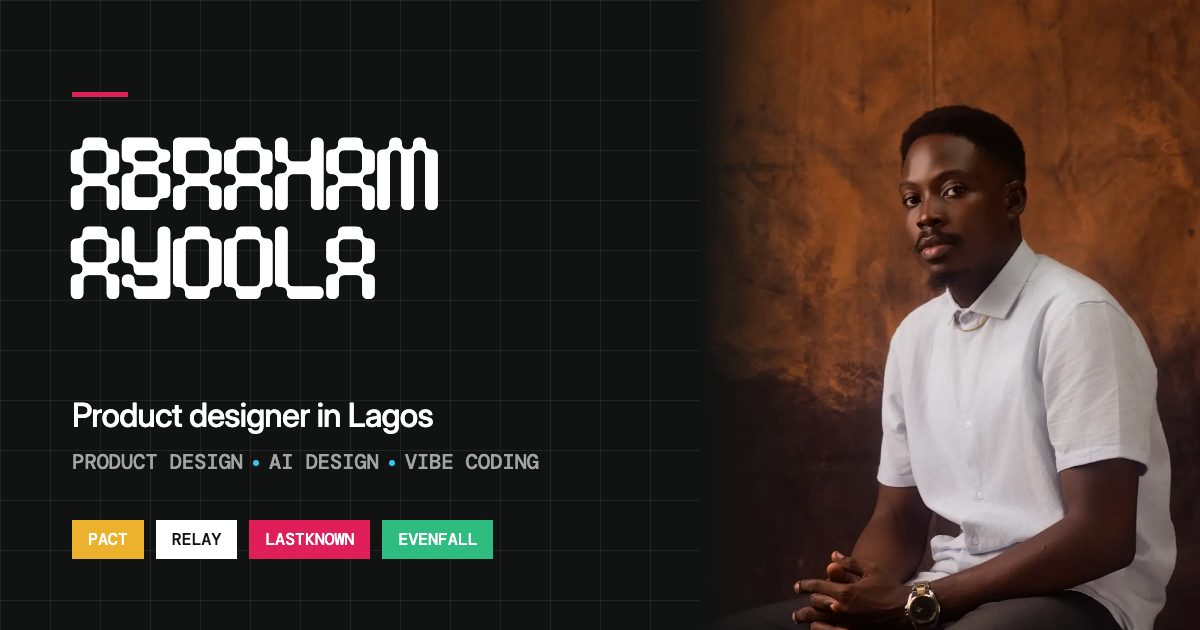
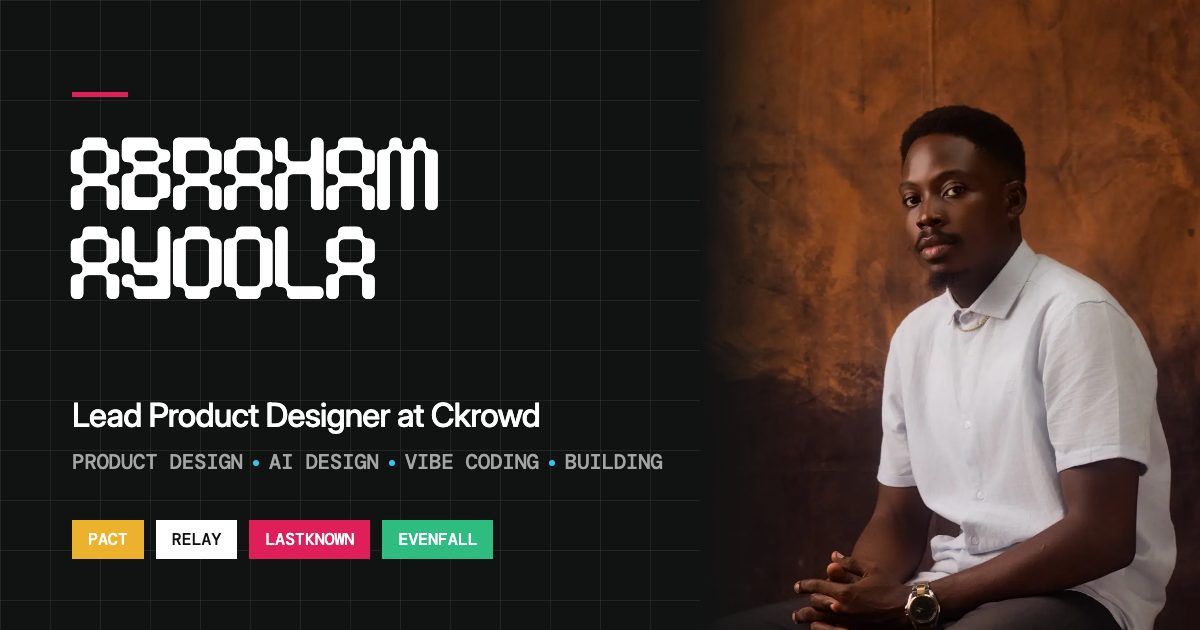
Update home preview copy to Lead Product Designer

Changed region(s): [[0.0617, 0.6333, 0.4625, 0.6937], [0.4625, 0.7238, 0.555, 0.754]]

diff --git a/play-ground/index.html b/play-ground/index.html
@@ -1,16 +1,16 @@
 <!doctype html>
 <html lang="en"><head>
 <meta charset="utf-8"><meta name="viewport" content="width=device-width,initial-scale=1">
-<title>Playground | Abraham Ayoola</title><meta name="description" content="Product designer in Lagos. I design and build outstanding digital products: Pact, Relay, LastKnown, Kivo, Evenfall, Avenli and Dwelling.">
+<title>Playground | Abraham Ayoola</title><meta name="description" content="Five years turning complex problems into products people can use. Edtech, fintech, health, proptech and the creator economy at Ckrowd, Pledre, Inawo and GetPerson. I design it, then build it.">
 <link rel="canonical" href="https://drahye.github.io/play-ground/">
 <meta name="theme-color" content="#36c5f0"><meta property="og:type" content="website"><meta property="og:site_name" content="Abraham Ayoola"><meta property="og:url" content="https://drahye.github.io/play-ground/">
-<meta property="og:title" content="Playground | Abraham Ayoola"><meta property="og:description" content="Product designer in Lagos. I design and build outstanding digital products: Pact, Relay, LastKnown, Kivo, Evenfall, Avenli and Dwelling.">
+<meta property="og:title" content="Playground | Abraham Ayoola"><meta property="og:description" content="Five years turning complex problems into products people can use. Edtech, fintech, health, proptech and the creator economy at Ckrowd, Pledre, Inawo and GetPerson. I design it, then build it.">
 <meta property="og:image" content="https://drahye.github.io/img/og.jpg"><meta property="og:image:type" content="image/jpeg"><meta property="og:image:width" content="1200"><meta property="og:image:height" content="630"><meta property="og:image:alt" content="Playground | Abraham Ayoola">
-<meta name="twitter:card" content="summary_large_image"><meta name="twitter:title" content="Playground | Abraham Ayoola"><meta name="twitter:description" content="Product designer in Lagos. I design and build outstanding digital products: Pact, Relay, LastKnown, Kivo, Evenfall, Avenli and Dwelling."><meta name="twitter:image" content="https://drahye.github.io/img/og.jpg">
+<meta name="twitter:card" content="summary_large_image"><meta name="twitter:title" content="Playground | Abraham Ayoola"><meta name="twitter:description" content="Five years turning complex problems into products people can use. Edtech, fintech, health, proptech and the creator economy at Ckrowd, Pledre, Inawo and GetPerson. I design it, then build it."><meta name="twitter:image" content="https://drahye.github.io/img/og.jpg">
 <link rel="icon" href="/img/favicon.svg" type="image/svg+xml">
 <script>if("scrollRestoration"in history)history.scrollRestoration="manual";if(!location.hash)scrollTo(0,0)</script>
 <link rel="preload" href="/fonts/FluxVF.woff2" as="font" type="font/woff2" crossorigin>
-<link rel="stylesheet" href="/styles.css?v=mw462iqw">
+<link rel="stylesheet" href="/styles.css?v=mw46jk9s">
 </head><body class="" data-page="playground">
 <a class="skip" href="#main">Skip to content</a>
 <div class="pt" id="pt" aria-hidden="true"><div class="paper"></div></div>
@@ -29,5 +29,5 @@
   <svg class="stk dr" style="left:380px;top:440px" data-r="0" width="76" height="76" viewBox="0 0 76 76"><circle cx="38" cy="38" r="34" fill="#f4b9cb" stroke="#111212" stroke-width="3"/><circle cx="28" cy="32" r="3" fill="#111212"/><circle cx="48" cy="32" r="3" fill="#111212"/><path d="M24 46c8 8 20 8 28 0" fill="none" stroke="#111212" stroke-width="3" stroke-linecap="round"/></svg></div><div class="ruler bottom"></div></main>
 </div>
 <a class="pill" href="mailto:abrahamayoola35@gmail.com"><i></i>Say hello</a>
-<script src="/lenis.min.js?v=mw462iqw"></script><script src="/main.js?v=mw462iqw" defer></script>
+<script src="/lenis.min.js?v=mw46jk9s"></script><script src="/main.js?v=mw46jk9s" defer></script>
 </body></html>

diff --git a/index.html b/index.html
@@ -1,16 +1,16 @@
 <!doctype html>
 <html lang="en"><head>
 <meta charset="utf-8"><meta name="viewport" content="width=device-width,initial-scale=1">
-<title>Abraham Ayoola — Product Designer</title><meta name="description" content="Product designer in Lagos. I design and build outstanding digital products: Pact, Relay, LastKnown, Kivo, Evenfall, Avenli and Dwelling.">
+<title>Abraham Ayoola — Lead Product Designer</title><meta name="description" content="Five years turning complex problems into products people can use. Edtech, fintech, health, proptech and the creator economy at Ckrowd, Pledre, Inawo and GetPerson. I design it, then build it.">
 <link rel="canonical" href="https://drahye.github.io/">
 <meta name="theme-color" content="#36c5f0"><meta property="og:type" content="website"><meta property="og:site_name" content="Abraham Ayoola"><meta property="og:url" content="https://drahye.github.io/">
-<meta property="og:title" content="Abraham Ayoola — Product Designer"><meta property="og:description" content="Product designer in Lagos. I design and build outstanding digital products: Pact, Relay, LastKnown, Kivo, Evenfall, Avenli and Dwelling.">
-<meta property="og:image" content="https://drahye.github.io/img/og.jpg"><meta property="og:image:type" content="image/jpeg"><meta property="og:image:width" content="1200"><meta property="og:image:height" content="630"><meta property="og:image:alt" content="Abraham Ayoola — Product Designer">
-<meta name="twitter:card" content="summary_large_image"><meta name="twitter:title" content="Abraham Ayoola — Product Designer"><meta name="twitter:description" content="Product designer in Lagos. I design and build outstanding digital products: Pact, Relay, LastKnown, Kivo, Evenfall, Avenli and Dwelling."><meta name="twitter:image" content="https://drahye.github.io/img/og.jpg">
+<meta property="og:title" content="Abraham Ayoola — Lead Product Designer"><meta property="og:description" content="Five years turning complex problems into products people can use. Edtech, fintech, health, proptech and the creator economy at Ckrowd, Pledre, Inawo and GetPerson. I design it, then build it.">
+<meta property="og:image" content="https://drahye.github.io/img/og.jpg"><meta property="og:image:type" content="image/jpeg"><meta property="og:image:width" content="1200"><meta property="og:image:height" content="630"><meta property="og:image:alt" content="Abraham Ayoola — Lead Product Designer">
+<meta name="twitter:card" content="summary_large_image"><meta name="twitter:title" content="Abraham Ayoola — Lead Product Designer"><meta name="twitter:description" content="Five years turning complex problems into products people can use. Edtech, fintech, health, proptech and the creator economy at Ckrowd, Pledre, Inawo and GetPerson. I design it, then build it."><meta name="twitter:image" content="https://drahye.github.io/img/og.jpg">
 <link rel="icon" href="/img/favicon.svg" type="image/svg+xml">
 <script>if("scrollRestoration"in history)history.scrollRestoration="manual";if(!location.hash)scrollTo(0,0)</script>
 <link rel="preload" href="/fonts/FluxVF.woff2" as="font" type="font/woff2" crossorigin>
-<link rel="stylesheet" href="/styles.css?v=mw462iqw">
+<link rel="stylesheet" href="/styles.css?v=mw46jk9s">
 </head><body class="" data-page="home">
 <a class="skip" href="#main">Skip to content</a>
 <div class="pt" id="pt" aria-hidden="true"><div class="paper"></div></div>
@@ -186,5 +186,5 @@
 </main>
 </div>
 <a class="pill" href="mailto:abrahamayoola35@gmail.com"><i></i>Say hello</a>
-<script src="/lenis.min.js?v=mw462iqw"></script><script src="/main.js?v=mw462iqw" defer></script>
+<script src="/lenis.min.js?v=mw46jk9s"></script><script src="/main.js?v=mw46jk9s" defer></script>
 </body></html>

diff --git a/case-study/index.html b/case-study/index.html
@@ -1,16 +1,16 @@
 <!doctype html>
 <html lang="en"><head>
 <meta charset="utf-8"><meta name="viewport" content="width=device-width,initial-scale=1">
-<title>Case studies | Abraham Ayoola</title><meta name="description" content="Product designer in Lagos. I design and build outstanding digital products: Pact, Relay, LastKnown, Kivo, Evenfall, Avenli and Dwelling.">
+<title>Case studies | Abraham Ayoola</title><meta name="description" content="Five years turning complex problems into products people can use. Edtech, fintech, health, proptech and the creator economy at Ckrowd, Pledre, Inawo and GetPerson. I design it, then build it.">
 <link rel="canonical" href="https://drahye.github.io/case-study/">
 <meta name="theme-color" content="#36c5f0"><meta property="og:type" content="website"><meta property="og:site_name" content="Abraham Ayoola"><meta property="og:url" content="https://drahye.github.io/case-study/">
-<meta property="og:title" content="Case studies | Abraham Ayoola"><meta property="og:description" content="Product designer in Lagos. I design and build outstanding digital products: Pact, Relay, LastKnown, Kivo, Evenfall, Avenli and Dwelling.">
+<meta property="og:title" content="Case studies | Abraham Ayoola"><meta property="og:description" content="Five years turning complex problems into products people can use. Edtech, fintech, health, proptech and the creator economy at Ckrowd, Pledre, Inawo and GetPerson. I design it, then build it.">
 <meta property="og:image" content="https://drahye.github.io/img/og.jpg"><meta property="og:image:type" content="image/jpeg"><meta property="og:image:width" content="1200"><meta property="og:image:height" content="630"><meta property="og:image:alt" content="Case studies | Abraham Ayoola">
-<meta name="twitter:card" content="summary_large_image"><meta name="twitter:title" content="Case studies | Abraham Ayoola"><meta name="twitter:description" content="Product designer in Lagos. I design and build outstanding digital products: Pact, Relay, LastKnown, Kivo, Evenfall, Avenli and Dwelling."><meta name="twitter:image" content="https://drahye.github.io/img/og.jpg">
+<meta name="twitter:card" content="summary_large_image"><meta name="twitter:title" content="Case studies | Abraham Ayoola"><meta name="twitter:description" content="Five years turning complex problems into products people can use. Edtech, fintech, health, proptech and the creator economy at Ckrowd, Pledre, Inawo and GetPerson. I design it, then build it."><meta name="twitter:image" content="https://drahye.github.io/img/og.jpg">
 <link rel="icon" href="/img/favicon.svg" type="image/svg+xml">
 <script>if("scrollRestoration"in history)history.scrollRestoration="manual";if(!location.hash)scrollTo(0,0)</script>
 <link rel="preload" href="/fonts/FluxVF.woff2" as="font" type="font/woff2" crossorigin>
-<link rel="stylesheet" href="/styles.css?v=mw462iqw">
+<link rel="stylesheet" href="/styles.css?v=mw46jk9s">
 </head><body class="" data-page="case-study">
 <a class="skip" href="#main">Skip to content</a>
 <div class="pt" id="pt" aria-hidden="true"><div class="paper"></div></div>
@@ -59,5 +59,5 @@
 </section></main>
 </div>
 <a class="pill" href="mailto:abrahamayoola35@gmail.com"><i></i>Say hello</a>
-<script src="/lenis.min.js?v=mw462iqw"></script><script src="/main.js?v=mw462iqw" defer></script>
+<script src="/lenis.min.js?v=mw46jk9s"></script><script src="/main.js?v=mw46jk9s" defer></script>
 </body></html>

diff --git a/404.html b/404.html
@@ -1,16 +1,16 @@
 <!doctype html>
 <html lang="en"><head>
 <meta charset="utf-8"><meta name="viewport" content="width=device-width,initial-scale=1">
-<title>Not found</title><meta name="description" content="Product designer in Lagos. I design and build outstanding digital products: Pact, Relay, LastKnown, Kivo, Evenfall, Avenli and Dwelling.">
+<title>Not found</title><meta name="description" content="Five years turning complex problems into products people can use. Edtech, fintech, health, proptech and the creator economy at Ckrowd, Pledre, Inawo and GetPerson. I design it, then build it.">
 <link rel="canonical" href="https://drahye.github.io/">
 <meta name="theme-color" content="#36c5f0"><meta property="og:type" content="website"><meta property="og:site_name" content="Abraham Ayoola"><meta property="og:url" content="https://drahye.github.io/">
-<meta property="og:title" content="Not found"><meta property="og:description" content="Product designer in Lagos. I design and build outstanding digital products: Pact, Relay, LastKnown, Kivo, Evenfall, Avenli and Dwelling.">
+<meta property="og:title" content="Not found"><meta property="og:description" content="Five years turning complex problems into products people can use. Edtech, fintech, health, proptech and the creator economy at Ckrowd, Pledre, Inawo and GetPerson. I design it, then build it.">
 <meta property="og:image" content="https://drahye.github.io/img/og.jpg"><meta property="og:image:type" content="image/jpeg"><meta property="og:image:width" content="1200"><meta property="og:image:height" content="630"><meta property="og:image:alt" content="Not found">
-<meta name="twitter:card" content="summary_large_image"><meta name="twitter:title" content="Not found"><meta name="twitter:description" content="Product designer in Lagos. I design and build outstanding digital products: Pact, Relay, LastKnown, Kivo, Evenfall, Avenli and Dwelling."><meta name="twitter:image" content="https://drahye.github.io/img/og.jpg">
+<meta name="twitter:card" content="summary_large_image"><meta name="twitter:title" content="Not found"><meta name="twitter:description" content="Five years turning complex problems into products people can use. Edtech, fintech, health, proptech and the creator economy at Ckrowd, Pledre, Inawo and GetPerson. I design it, then build it."><meta name="twitter:image" content="https://drahye.github.io/img/og.jpg">
 <link rel="icon" href="/img/favicon.svg" type="image/svg+xml">
 <script>if("scrollRestoration"in history)history.scrollRestoration="manual";if(!location.hash)scrollTo(0,0)</script>
 <link rel="preload" href="/fonts/FluxVF.woff2" as="font" type="font/woff2" crossorigin>
-<link rel="stylesheet" href="/styles.css?v=mw462iqw">
+<link rel="stylesheet" href="/styles.css?v=mw46jk9s">
 </head><body class="" data-page="404">
 <a class="skip" href="#main">Skip to content</a>
 <div class="pt" id="pt" aria-hidden="true"><div class="paper"></div></div>
@@ -26,5 +26,5 @@
 <main id="main" tabindex="-1"><div class="pg-h"><h1 class="flux t-xl">404</h1><p style="margin-top:30px"><a class="vp mono s" href="/">Back home</a></p></div></main>
 </div>
 <a class="pill" href="mailto:abrahamayoola35@gmail.com"><i></i>Say hello</a>
-<script src="/lenis.min.js?v=mw462iqw"></script><script src="/main.js?v=mw462iqw" defer></script>
+<script src="/lenis.min.js?v=mw46jk9s"></script><script src="/main.js?v=mw46jk9s" defer></script>
 </body></html>

diff --git a/contact/index.html b/contact/index.html
@@ -1,16 +1,16 @@
 <!doctype html>
 <html lang="en"><head>
 <meta charset="utf-8"><meta name="viewport" content="width=device-width,initial-scale=1">
-<title>Contact | Abraham Ayoola</title><meta name="description" content="Product designer in Lagos. I design and build outstanding digital products: Pact, Relay, LastKnown, Kivo, Evenfall, Avenli and Dwelling.">
+<title>Contact | Abraham Ayoola</title><meta name="description" content="Five years turning complex problems into products people can use. Edtech, fintech, health, proptech and the creator economy at Ckrowd, Pledre, Inawo and GetPerson. I design it, then build it.">
 <link rel="canonical" href="https://drahye.github.io/contact/">
 <meta name="theme-color" content="#36c5f0"><meta property="og:type" content="website"><meta property="og:site_name" content="Abraham Ayoola"><meta property="og:url" content="https://drahye.github.io/contact/">
-<meta property="og:title" content="Contact | Abraham Ayoola"><meta property="og:description" content="Product designer in Lagos. I design and build outstanding digital products: Pact, Relay, LastKnown, Kivo, Evenfall, Avenli and Dwelling.">
+<meta property="og:title" content="Contact | Abraham Ayoola"><meta property="og:description" content="Five years turning complex problems into products people can use. Edtech, fintech, health, proptech and the creator economy at Ckrowd, Pledre, Inawo and GetPerson. I design it, then build it.">
 <meta property="og:image" content="https://drahye.github.io/img/og.jpg"><meta property="og:image:type" content="image/jpeg"><meta property="og:image:width" content="1200"><meta property="og:image:height" content="630"><meta property="og:image:alt" content="Contact | Abraham Ayoola">
-<meta name="twitter:card" content="summary_large_image"><meta name="twitter:title" content="Contact | Abraham Ayoola"><meta name="twitter:description" content="Product designer in Lagos. I design and build outstanding digital products: Pact, Relay, LastKnown, Kivo, Evenfall, Avenli and Dwelling."><meta name="twitter:image" content="https://drahye.github.io/img/og.jpg">
+<meta name="twitter:card" content="summary_large_image"><meta name="twitter:title" content="Contact | Abraham Ayoola"><meta name="twitter:description" content="Five years turning complex problems into products people can use. Edtech, fintech, health, proptech and the creator economy at Ckrowd, Pledre, Inawo and GetPerson. I design it, then build it."><meta name="twitter:image" content="https://drahye.github.io/img/og.jpg">
 <link rel="icon" href="/img/favicon.svg" type="image/svg+xml">
 <script>if("scrollRestoration"in history)history.scrollRestoration="manual";if(!location.hash)scrollTo(0,0)</script>
 <link rel="preload" href="/fonts/FluxVF.woff2" as="font" type="font/woff2" crossorigin>
-<link rel="stylesheet" href="/styles.css?v=mw462iqw">
+<link rel="stylesheet" href="/styles.css?v=mw46jk9s">
 </head><body class="" data-page="contact">
 <a class="skip" href="#main">Skip to content</a>
 <div class="pt" id="pt" aria-hidden="true"><div class="paper"></div></div>
@@ -38,5 +38,5 @@
 </section></main>
 </div>
 <a class="pill" href="mailto:abrahamayoola35@gmail.com"><i></i>Say hello</a>
-<script src="/lenis.min.js?v=mw462iqw"></script><script src="/main.js?v=mw462iqw" defer></script>
+<script src="/lenis.min.js?v=mw46jk9s"></script><script src="/main.js?v=mw46jk9s" defer></script>
 </body></html>

diff --git a/journal/index.html b/journal/index.html
@@ -1,16 +1,16 @@
 <!doctype html>
 <html lang="en"><head>
 <meta charset="utf-8"><meta name="viewport" content="width=device-width,initial-scale=1">
-<title>Journal | Abraham Ayoola</title><meta name="description" content="Product designer in Lagos. I design and build outstanding digital products: Pact, Relay, LastKnown, Kivo, Evenfall, Avenli and Dwelling.">
+<title>Journal | Abraham Ayoola</title><meta name="description" content="Five years turning complex problems into products people can use. Edtech, fintech, health, proptech and the creator economy at Ckrowd, Pledre, Inawo and GetPerson. I design it, then build it.">
 <link rel="canonical" href="https://drahye.github.io/journal/">
 <meta name="theme-color" content="#36c5f0"><meta property="og:type" content="website"><meta property="og:site_name" content="Abraham Ayoola"><meta property="og:url" content="https://drahye.github.io/journal/">
-<meta property="og:title" content="Journal | Abraham Ayoola"><meta property="og:description" content="Product designer in Lagos. I design and build outstanding digital products: Pact, Relay, LastKnown, Kivo, Evenfall, Avenli and Dwelling.">
+<meta property="og:title" content="Journal | Abraham Ayoola"><meta property="og:description" content="Five years turning complex problems into products people can use. Edtech, fintech, health, proptech and the creator economy at Ckrowd, Pledre, Inawo and GetPerson. I design it, then build it.">
 <meta property="og:image" content="https://drahye.github.io/img/og.jpg"><meta property="og:image:type" content="image/jpeg"><meta property="og:image:width" content="1200"><meta property="og:image:height" content="630"><meta property="og:image:alt" content="Journal | Abraham Ayoola">
-<meta name="twitter:card" content="summary_large_image"><meta name="twitter:title" content="Journal | Abraham Ayoola"><meta name="twitter:description" content="Product designer in Lagos. I design and build outstanding digital products: Pact, Relay, LastKnown, Kivo, Evenfall, Avenli and Dwelling."><meta name="twitter:image" content="https://drahye.github.io/img/og.jpg">
+<meta name="twitter:card" content="summary_large_image"><meta name="twitter:title" content="Journal | Abraham Ayoola"><meta name="twitter:description" content="Five years turning complex problems into products people can use. Edtech, fintech, health, proptech and the creator economy at Ckrowd, Pledre, Inawo and GetPerson. I design it, then build it."><meta name="twitter:image" content="https://drahye.github.io/img/og.jpg">
 <link rel="icon" href="/img/favicon.svg" type="image/svg+xml">
 <script>if("scrollRestoration"in history)history.scrollRestoration="manual";if(!location.hash)scrollTo(0,0)</script>
 <link rel="preload" href="/fonts/FluxVF.woff2" as="font" type="font/woff2" crossorigin>
-<link rel="stylesheet" href="/styles.css?v=mw462iqw">
+<link rel="stylesheet" href="/styles.css?v=mw46jk9s">
 </head><body class="" data-page="journal">
 <a class="skip" href="#main">Skip to content</a>
 <div class="pt" id="pt" aria-hidden="true"><div class="paper"></div></div>
@@ -37,5 +37,5 @@
 </section></main>
 </div>
 <a class="pill" href="mailto:abrahamayoola35@gmail.com"><i></i>Say hello</a>
-<script src="/lenis.min.js?v=mw462iqw"></script><script src="/main.js?v=mw462iqw" defer></script>
+<script src="/lenis.min.js?v=mw46jk9s"></script><script src="/main.js?v=mw46jk9s" defer></script>
 </body></html>

diff --git a/services/index.html b/services/index.html
@@ -1,16 +1,16 @@
 <!doctype html>
 <html lang="en"><head>
 <meta charset="utf-8"><meta name="viewport" content="width=device-width,initial-scale=1">
-<title>Services | Abraham Ayoola</title><meta name="description" content="Product designer in Lagos. I design and build outstanding digital products: Pact, Relay, LastKnown, Kivo, Evenfall, Avenli and Dwelling.">
+<title>Services | Abraham Ayoola</title><meta name="description" content="Five years turning complex problems into products people can use. Edtech, fintech, health, proptech and the creator economy at Ckrowd, Pledre, Inawo and GetPerson. I design it, then build it.">
 <link rel="canonical" href="https://drahye.github.io/services/">
 <meta name="theme-color" content="#36c5f0"><meta property="og:type" content="website"><meta property="og:site_name" content="Abraham Ayoola"><meta property="og:url" content="https://drahye.github.io/services/">
-<meta property="og:title" content="Services | Abraham Ayoola"><meta property="og:description" content="Product designer in Lagos. I design and build outstanding digital products: Pact, Relay, LastKnown, Kivo, Evenfall, Avenli and Dwelling.">
+<meta property="og:title" content="Services | Abraham Ayoola"><meta property="og:description" content="Five years turning complex problems into products people can use. Edtech, fintech, health, proptech and the creator economy at Ckrowd, Pledre, Inawo and GetPerson. I design it, then build it.">
 <meta property="og:image" content="https://drahye.github.io/img/og.jpg"><meta property="og:image:type" content="image/jpeg"><meta property="og:image:width" content="1200"><meta property="og:image:height" content="630"><meta property="og:image:alt" content="Services | Abraham Ayoola">
-<meta name="twitter:card" content="summary_large_image"><meta name="twitter:title" content="Services | Abraham Ayoola"><meta name="twitter:description" content="Product designer in Lagos. I design and build outstanding digital products: Pact, Relay, LastKnown, Kivo, Evenfall, Avenli and Dwelling."><meta name="twitter:image" content="https://drahye.github.io/img/og.jpg">
+<meta name="twitter:card" content="summary_large_image"><meta name="twitter:title" content="Services | Abraham Ayoola"><meta name="twitter:description" content="Five years turning complex problems into products people can use. Edtech, fintech, health, proptech and the creator economy at Ckrowd, Pledre, Inawo and GetPerson. I design it, then build it."><meta name="twitter:image" content="https://drahye.github.io/img/og.jpg">
 <link rel="icon" href="/img/favicon.svg" type="image/svg+xml">
 <script>if("scrollRestoration"in history)history.scrollRestoration="manual";if(!location.hash)scrollTo(0,0)</script>
 <link rel="preload" href="/fonts/FluxVF.woff2" as="font" type="font/woff2" crossorigin>
-<link rel="stylesheet" href="/styles.css?v=mw462iqw">
+<link rel="stylesheet" href="/styles.css?v=mw46jk9s">
 </head><body class="" data-page="services">
 <a class="skip" href="#main">Skip to content</a>
 <div class="pt" id="pt" aria-hidden="true"><div class="paper"></div></div>
@@ -50,5 +50,5 @@
 </main>
 </div>
 <a class="pill" href="mailto:abrahamayoola35@gmail.com"><i></i>Say hello</a>
-<script src="/lenis.min.js?v=mw462iqw"></script><script src="/main.js?v=mw462iqw" defer></script>
+<script src="/lenis.min.js?v=mw46jk9s"></script><script src="/main.js?v=mw46jk9s" defer></script>
 </body></html>

diff --git a/about/index.html b/about/index.html
@@ -1,16 +1,16 @@
 <!doctype html>
 <html lang="en"><head>
 <meta charset="utf-8"><meta name="viewport" content="width=device-width,initial-scale=1">
-<title>About | Abraham Ayoola</title><meta name="description" content="Product designer in Lagos. I design and build outstanding digital products: Pact, Relay, LastKnown, Kivo, Evenfall, Avenli and Dwelling.">
+<title>About | Abraham Ayoola</title><meta name="description" content="Five years turning complex problems into products people can use. Edtech, fintech, health, proptech and the creator economy at Ckrowd, Pledre, Inawo and GetPerson. I design it, then build it.">
 <link rel="canonical" href="https://drahye.github.io/about/">
 <meta name="theme-color" content="#36c5f0"><meta property="og:type" content="website"><meta property="og:site_name" content="Abraham Ayoola"><meta property="og:url" content="https://drahye.github.io/about/">
-<meta property="og:title" content="About | Abraham Ayoola"><meta property="og:description" content="Product designer in Lagos. I design and build outstanding digital products: Pact, Relay, LastKnown, Kivo, Evenfall, Avenli and Dwelling.">
+<meta property="og:title" content="About | Abraham Ayoola"><meta property="og:description" content="Five years turning complex problems into products people can use. Edtech, fintech, health, proptech and the creator economy at Ckrowd, Pledre, Inawo and GetPerson. I design it, then build it.">
 <meta property="og:image" content="https://drahye.github.io/img/og.jpg"><meta property="og:image:type" content="image/jpeg"><meta property="og:image:width" content="1200"><meta property="og:image:height" content="630"><meta property="og:image:alt" content="About | Abraham Ayoola">
-<meta name="twitter:card" content="summary_large_image"><meta name="twitter:title" content="About | Abraham Ayoola"><meta name="twitter:description" content="Product designer in Lagos. I design and build outstanding digital products: Pact, Relay, LastKnown, Kivo, Evenfall, Avenli and Dwelling."><meta name="twitter:image" content="https://drahye.github.io/img/og.jpg">
+<meta name="twitter:card" content="summary_large_image"><meta name="twitter:title" content="About | Abraham Ayoola"><meta name="twitter:description" content="Five years turning complex problems into products people can use. Edtech, fintech, health, proptech and the creator economy at Ckrowd, Pledre, Inawo and GetPerson. I design it, then build it."><meta name="twitter:image" content="https://drahye.github.io/img/og.jpg">
 <link rel="icon" href="/img/favicon.svg" type="image/svg+xml">
 <script>if("scrollRestoration"in history)history.scrollRestoration="manual";if(!location.hash)scrollTo(0,0)</script>
 <link rel="preload" href="/fonts/FluxVF.woff2" as="font" type="font/woff2" crossorigin>
-<link rel="stylesheet" href="/styles.css?v=mw462iqw">
+<link rel="stylesheet" href="/styles.css?v=mw46jk9s">
 </head><body class="" data-page="about">
 <a class="skip" href="#main">Skip to content</a>
 <div class="pt" id="pt" aria-hidden="true"><div class="paper"></div></div>
@@ -58,5 +58,5 @@
 </main>
 </div>
 <a class="pill" href="mailto:abrahamayoola35@gmail.com"><i></i>Say hello</a>
-<script src="/lenis.min.js?v=mw462iqw"></script><script src="/main.js?v=mw462iqw" defer></script>
+<script src="/lenis.min.js?v=mw46jk9s"></script><script src="/main.js?v=mw46jk9s" defer></script>
 </body></html>

diff --git a/journal/how-to-stay-steady-as-a-freelance-designer/index.html b/journal/how-to-stay-steady-as-a-freelance-designer/index.html
@@ -10,7 +10,7 @@
 <link rel="icon" href="/img/favicon.svg" type="image/svg+xml">
 <script>if("scrollRestoration"in history)history.scrollRestoration="manual";if(!location.hash)scrollTo(0,0)</script>
 <link rel="preload" href="/fonts/FluxVF.woff2" as="font" type="font/woff2" crossorigin>
-<link rel="stylesheet" href="/styles.css?v=mw462iqw">
+<link rel="stylesheet" href="/styles.css?v=mw46jk9s">
 </head><body class="" data-page="journal-how-to-stay-steady-as-a-freelance-designer">
 <a class="skip" href="#main">Skip to content</a>
 <div class="pt" id="pt" aria-hidden="true"><div class="paper"></div></div>
@@ -46,5 +46,5 @@
 </section></main>
 </div>
 <a class="pill" href="mailto:abrahamayoola35@gmail.com"><i></i>Say hello</a>
-<script src="/lenis.min.js?v=mw462iqw"></script><script src="/main.js?v=mw462iqw" defer></script>
+<script src="/lenis.min.js?v=mw46jk9s"></script><script src="/main.js?v=mw46jk9s" defer></script>
 </body></html>

diff --git a/journal/how-product-decisions-shape-real-growth/index.html b/journal/how-product-decisions-shape-real-growth/index.html
@@ -10,7 +10,7 @@
 <link rel="icon" href="/img/favicon.svg" type="image/svg+xml">
 <script>if("scrollRestoration"in history)history.scrollRestoration="manual";if(!location.hash)scrollTo(0,0)</script>
 <link rel="preload" href="/fonts/FluxVF.woff2" as="font" type="font/woff2" crossorigin>
-<link rel="stylesheet" href="/styles.css?v=mw462iqw">
+<link rel="stylesheet" href="/styles.css?v=mw46jk9s">
 </head><body class="" data-page="journal-how-product-decisions-shape-real-growth">
 <a class="skip" href="#main">Skip to content</a>
 <div class="pt" id="pt" aria-hidden="true"><div class="paper"></div></div>
@@ -46,5 +46,5 @@
 </section></main>
 </div>
 <a class="pill" href="mailto:abrahamayoola35@gmail.com"><i></i>Say hello</a>
-<script src="/lenis.min.js?v=mw462iqw"></script><script src="/main.js?v=mw462iqw" defer></script>
+<script src="/lenis.min.js?v=mw46jk9s"></script><script src="/main.js?v=mw46jk9s" defer></script>
 </body></html>

diff --git a/journal/ai-in-design-without-the-noise/index.html b/journal/ai-in-design-without-the-noise/index.html
@@ -10,7 +10,7 @@
 <link rel="icon" href="/img/favicon.svg" type="image/svg+xml">
 <script>if("scrollRestoration"in history)history.scrollRestoration="manual";if(!location.hash)scrollTo(0,0)</script>
 <link rel="preload" href="/fonts/FluxVF.woff2" as="font" type="font/woff2" crossorigin>
-<link rel="stylesheet" href="/styles.css?v=mw462iqw">
+<link rel="stylesheet" href="/styles.css?v=mw46jk9s">
 </head><body class="" data-page="journal-ai-in-design-without-the-noise">
 <a class="skip" href="#main">Skip to content</a>
 <div class="pt" id="pt" aria-hidden="true"><div class="paper"></div></div>
@@ -46,5 +46,5 @@
 </section></main>
 </div>
 <a class="pill" href="mailto:abrahamayoola35@gmail.com"><i></i>Say hello</a>
-<script src="/lenis.min.js?v=mw462iqw"></script><script src="/main.js?v=mw462iqw" defer></script>
+<script src="/lenis.min.js?v=mw46jk9s"></script><script src="/main.js?v=mw46jk9s" defer></script>
 </body></html>

diff --git a/case-study/lastknown/index.html b/case-study/lastknown/index.html
@@ -10,7 +10,7 @@
 <link rel="icon" href="/img/favicon.svg" type="image/svg+xml">
 <script>if("scrollRestoration"in history)history.scrollRestoration="manual";if(!location.hash)scrollTo(0,0)</script>
 <link rel="preload" href="/fonts/FluxVF.woff2" as="font" type="font/woff2" crossorigin>
-<link rel="stylesheet" href="/styles.css?v=mw462iqw">
+<link rel="stylesheet" href="/styles.css?v=mw46jk9s">
 </head><body class="" data-page="case-lastknown">
 <a class="skip" href="#main">Skip to content</a>
 <div class="pt" id="pt" aria-hidden="true"><div class="paper"></div></div>
@@ -58,5 +58,5 @@
 </main>
 </div>
 <a class="pill" href="mailto:abrahamayoola35@gmail.com"><i></i>Say hello</a>
-<script src="/lenis.min.js?v=mw462iqw"></script><script src="/main.js?v=mw462iqw" defer></script>
+<script src="/lenis.min.js?v=mw46jk9s"></script><script src="/main.js?v=mw46jk9s" defer></script>
 </body></html>
